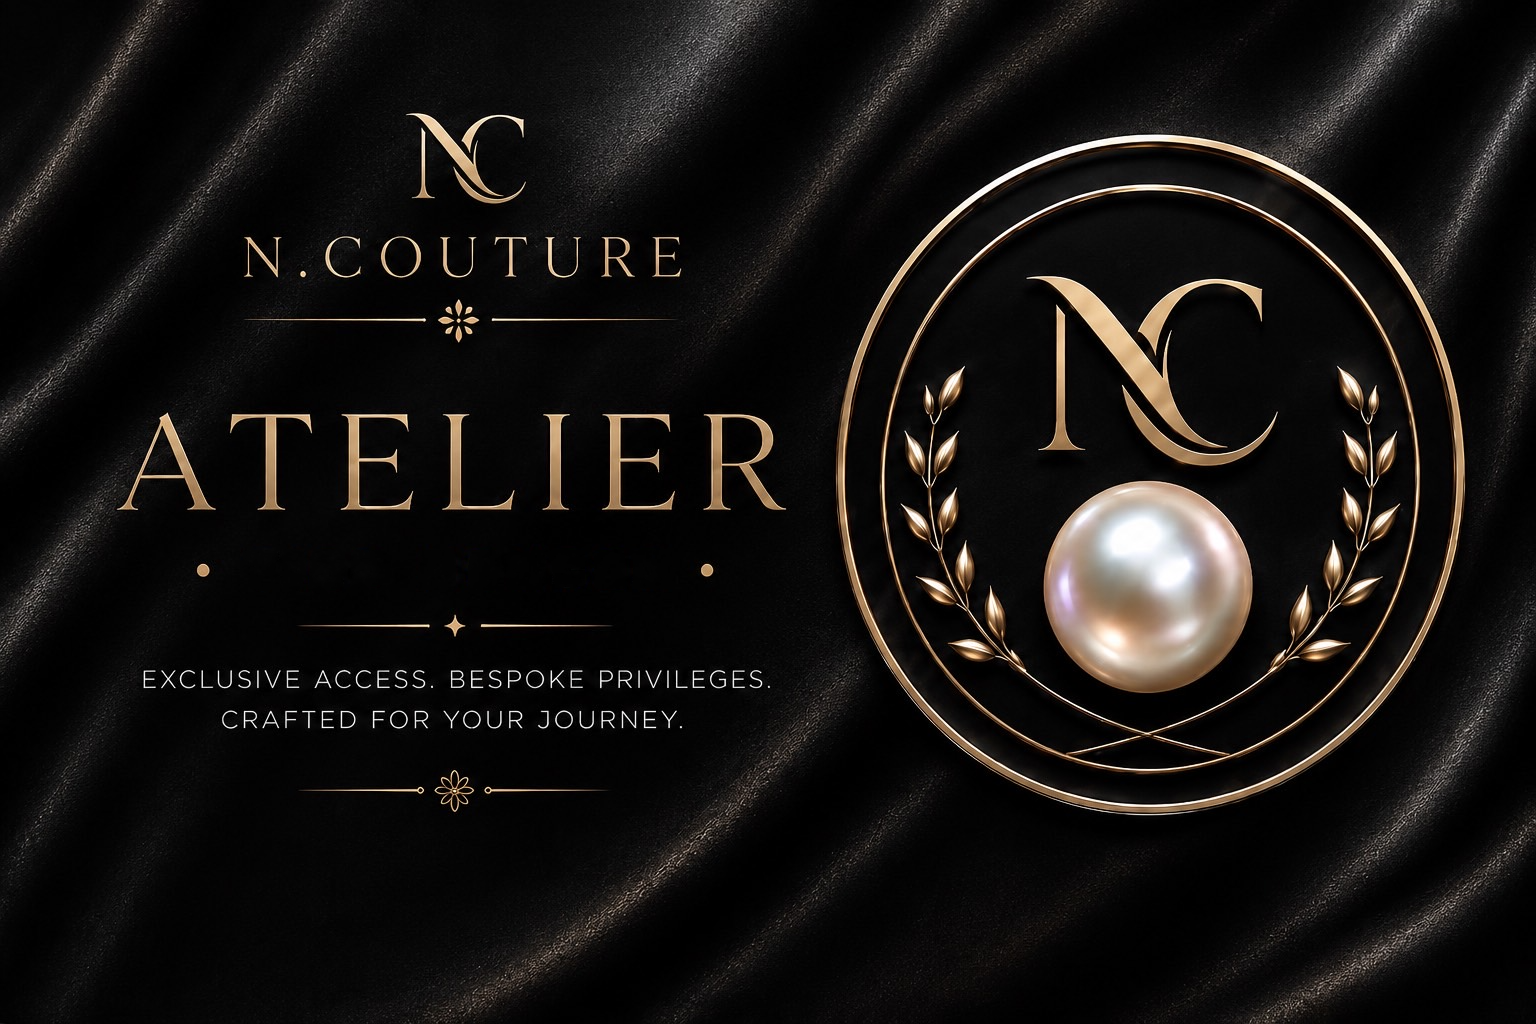
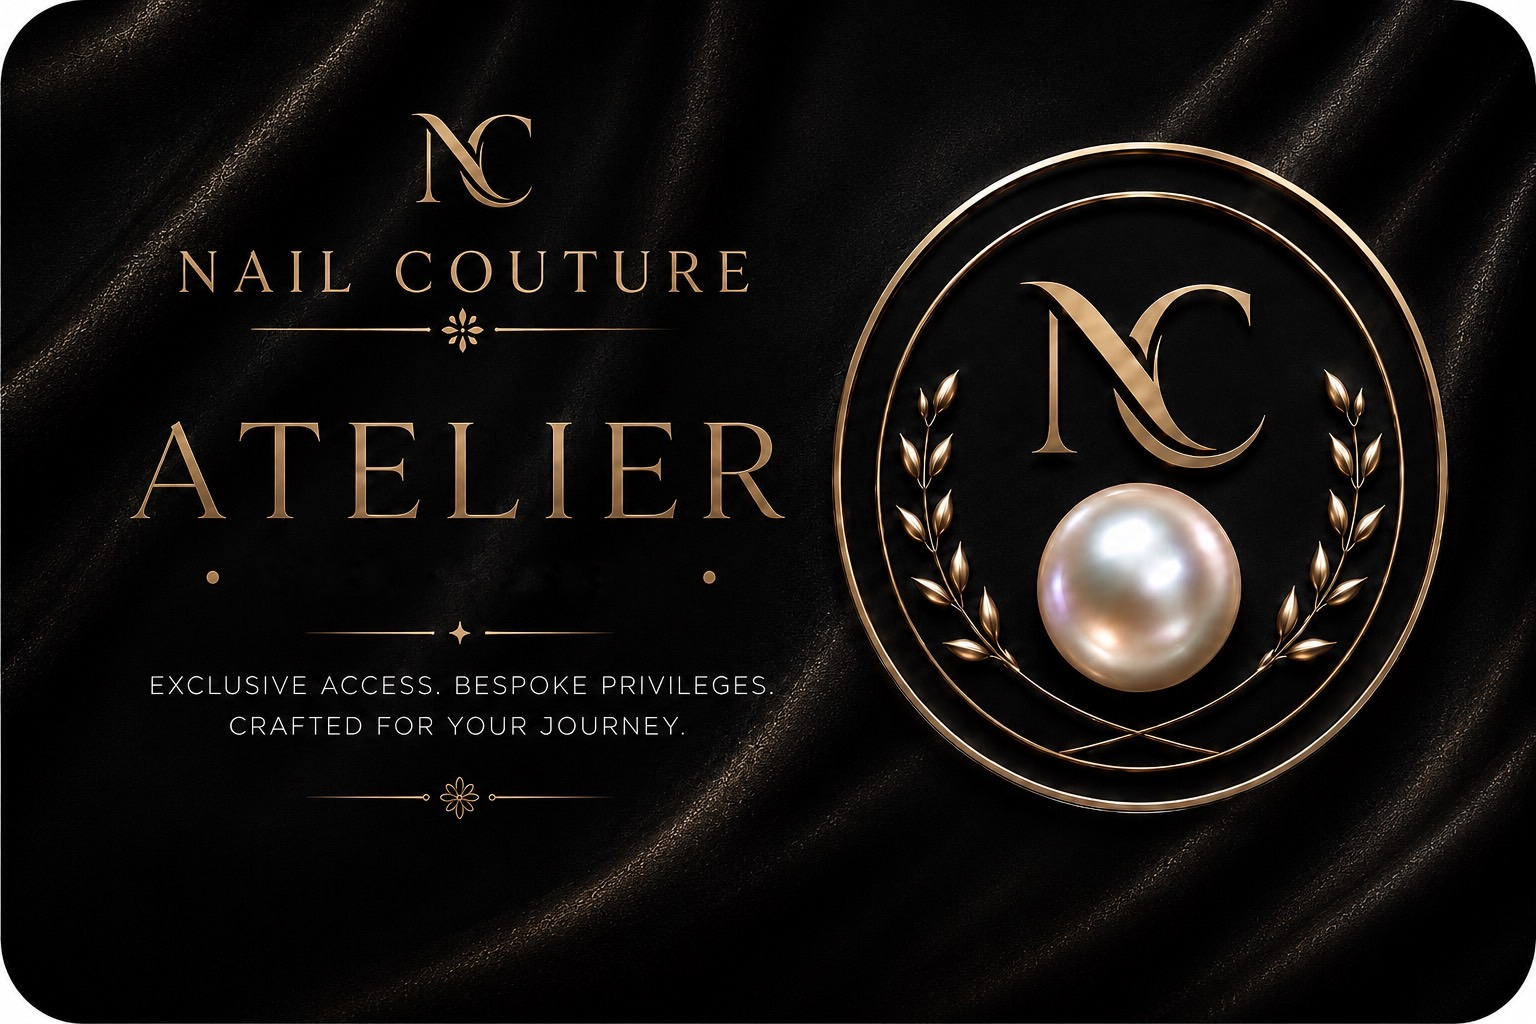
Use gift card artwork in compact GiftCardVisual and add dev preview.
Replace the gradient gift card with the 000.png asset fitted to the existing compact layout, and add shared layout constants plus a /dev/gift-card preview route.

diff --git a/apps/web/src/components/GiftCardVisual.jsx b/apps/web/src/components/GiftCardVisual.jsx
@@ -1,5 +1,6 @@
 import clsx from 'clsx';
-import { useAppTheme } from '../hooks/useAppTheme.js';
+import { formatGiftCardBalance } from '@nail-couture/shared/constants/giftCardLayout.js';
+import { GIFT_CARD_WEB_IMAGE } from '../constants/giftCardImages.js';
 
 export function GiftCardVisual({
   isDark,
@@ -16,83 +17,94 @@ export function GiftCardVisual({
   onCodeClick,
   footer,
 }) {
-  const { logoUrl } = useAppTheme();
   const hasBalance = balance != null && Number.isFinite(Number(balance));
   const hasInitial = initialAmount != null && Number.isFinite(Number(initialAmount));
-  const muted = isDark ? 'text-offwhite/50' : 'text-charcoal/50';
-  const faint = isDark ? 'text-offwhite/35' : 'text-charcoal/35';
+  const muted = isDark ? 'text-offwhite/70' : 'text-charcoal/70';
+  const faint = isDark ? 'text-offwhite/50' : 'text-charcoal/50';
 
   return (
-    <div
-      className={clsx(
-        'rounded-xl border overflow-hidden',
-        isDark
-          ? 'border-gold/25 bg-gradient-to-br from-[#1c1a16] via-[#141310] to-[#0d0c0a]'
-          : 'border-gold/35 bg-gradient-to-br from-white via-gold/5 to-gold/10',
-      )}
-    >
-      <div className={clsx('px-4 py-2.5 flex items-center justify-between border-b', isDark ? 'border-gold/15' : 'border-gold/20')}>
-        <div className="flex items-center gap-2 min-w-0">
-          <img src={logoUrl} alt="" className="h-7 w-auto shrink-0 opacity-90" />
-          <span className="font-heading text-gold text-sm truncate">Nail Couture</span>
+    <div className="relative rounded-xl border overflow-hidden border-gold/25 bg-[#0d0c0a]">
+      <img
+        src={GIFT_CARD_WEB_IMAGE}
+        alt=""
+        aria-hidden="true"
+        className="absolute inset-0 w-full h-full object-contain object-center"
+        decoding="async"
+        draggable={false}
+      />
+      <div
+        className="absolute inset-0 bg-gradient-to-br from-black/40 via-black/20 to-black/45"
+        aria-hidden="true"
+      />
+
+      <div className="relative z-[1]">
+        <div className="px-4 py-2.5 flex items-center justify-between border-b border-gold/15">
+          <span className="font-heading text-gold/90 text-sm truncate">Gift Card</span>
+          {codeInteractive ? (
+            <button
+              type="button"
+              onClick={onCodeClick}
+              className="font-mono text-xs shrink-0 text-gold hover:underline"
+            >
+              {codeDisplay}
+            </button>
+          ) : (
+            <span className="font-mono text-xs shrink-0 text-gold/70">{codeDisplay}</span>
+          )}
         </div>
-        {codeInteractive ? (
-          <button
-            type="button"
-            onClick={onCodeClick}
-            className="font-mono text-xs shrink-0 text-gold hover:underline"
+
+        <div className="px-4 py-3 flex items-end justify-between gap-3">
+          <div className="min-w-0">
+            {hasBalance ? (
+              <div className="font-heading text-3xl text-gold leading-none">
+                {formatGiftCardBalance(balance)}
+              </div>
+            ) : (
+              <div className={clsx('font-heading text-2xl leading-none', faint)}>$—</div>
+            )}
+            {ownerName && (
+              <div className={clsx('text-xs mt-1.5 truncate', muted)}>{ownerName}</div>
+            )}
+            {statusText && (
+              <div className={clsx('text-xs mt-1', muted)}>{statusText}</div>
+            )}
+            {expiryText && (
+              <div className={clsx('text-xs mt-0.5', expiryExpired ? 'text-red-400/90' : faint)}>
+                {expiryText}
+              </div>
+            )}
+            {giftedFromText && (
+              <div className={clsx('text-xs mt-1', muted)}>{giftedFromText}</div>
+            )}
+          </div>
+          <div className="text-right shrink-0">
+            {hasInitial ? (
+              <div className="font-heading text-5xl text-gold leading-none">
+                ${Number(initialAmount).toFixed(2)}
+              </div>
+            ) : (
+              <div className={clsx('font-heading text-4xl leading-none', faint)}>$—</div>
+            )}
+          </div>
+        </div>
+
+        {giftMessage && (
+          <p className={clsx('px-4 pb-3 text-xs italic', muted)}>
+            &ldquo;{giftMessage}&rdquo;
+          </p>
+        )}
+
+        {footer && (
+          <div
+            className={clsx(
+              'px-4 pb-3 flex items-center justify-end gap-3',
+              giftMessage ? 'pt-0' : 'border-t border-gold/15 pt-3',
+            )}
           >
-            {codeDisplay}
-          </button>
-        ) : (
-          <span className={clsx('font-mono text-xs shrink-0', isDark ? 'text-gold/40' : 'text-gold/50')}>
-            {codeDisplay}
-          </span>
+            {footer}
+          </div>
         )}
       </div>
-
-      <div className="px-4 py-3 flex items-end justify-between gap-3">
-        <div className="min-w-0">
-          {hasBalance ? (
-            <div className="font-heading text-3xl text-gold leading-none">${Number(balance).toFixed(2)}</div>
-          ) : (
-            <div className={clsx('font-heading text-2xl leading-none', faint)}>$—</div>
-          )}
-          {ownerName && (
-            <div className={clsx('text-xs mt-1.5 truncate', muted)}>{ownerName}</div>
-          )}
-          {statusText && (
-            <div className={clsx('text-xs mt-1', muted)}>{statusText}</div>
-          )}
-          {expiryText && (
-            <div className={clsx('text-xs mt-0.5', expiryExpired ? 'text-red-400/80' : faint)}>
-              {expiryText}
-            </div>
-          )}
-          {giftedFromText && (
-            <div className={clsx('text-xs mt-1', muted)}>{giftedFromText}</div>
-          )}
-        </div>
-        <div className="text-right shrink-0">
-          {hasInitial ? (
-            <div className="font-heading text-5xl text-gold leading-none">${Number(initialAmount).toFixed(2)}</div>
-          ) : (
-            <div className={clsx('font-heading text-4xl leading-none', faint)}>$—</div>
-          )}
-        </div>
-      </div>
-
-      {giftMessage && (
-        <p className={clsx('px-4 pb-3 text-xs italic', muted)}>
-          &ldquo;{giftMessage}&rdquo;
-        </p>
-      )}
-
-      {footer && (
-        <div className={clsx('px-4 pb-3 flex items-center justify-end gap-3', giftMessage ? 'pt-0' : 'border-t pt-3', isDark ? 'border-gold/15' : 'border-gold/20')}>
-          {footer}
-        </div>
-      )}
     </div>
   );
 }

diff --git a/apps/web/src/pages/dev/GiftCardPreviewPage.jsx b/apps/web/src/pages/dev/GiftCardPreviewPage.jsx
@@ -1,0 +1,82 @@
+import { useState } from 'react';
+import { Link } from 'react-router-dom';
+import { GiftCardVisual } from '../../components/GiftCardVisual.jsx';
+
+const PREVIEW_PROFILES = {
+  active: {
+    balance: 500,
+    initialAmount: 500,
+    ownerName: 'Customer5',
+    statusText: 'Active',
+    expiryText: 'Expires Jun 21, 2027',
+    giftedFromText: 'Gifted from A',
+    giftMessage: 'Hello',
+    codeDisplay: 'GC--****-44RT',
+  },
+  lowBalance: {
+    balance: 42.5,
+    ownerName: 'Jordan Lee',
+    statusText: 'Active',
+    expiryText: 'Expires Mar 15, 2026',
+    codeDisplay: 'GC-AB12-CD34',
+  },
+  preview: {
+    balance: 100,
+    ownerName: 'Recipient Name',
+    expiryText: 'Valid for 1 year',
+    giftMessage: 'Enjoy your spa day!',
+    codeDisplay: 'GC-****-****',
+  },
+};
+
+export default function GiftCardPreviewPage() {
+  const [profileKey, setProfileKey] = useState('active');
+  const profile = PREVIEW_PROFILES[profileKey] || PREVIEW_PROFILES.active;
+
+  return (
+    <div className="min-h-screen bg-primary text-primary p-4 md:p-8">
+      <div className="max-w-2xl mx-auto space-y-5">
+        <div className="rounded-2xl border border-card bg-card p-4 space-y-4">
+          <div className="flex flex-wrap items-start justify-between gap-3">
+            <div>
+              <p className="text-[10px] uppercase tracking-widest text-gold">Dev only</p>
+              <h1 className="font-heading text-2xl text-primary">Gift card preview</h1>
+              <p className="text-sm text-secondary mt-1">
+                Compact gift card layout in{' '}
+                <code className="text-xs">apps/web/src/components/GiftCardVisual.jsx</code>
+              </p>
+            </div>
+            <Link to="/customer/gift-cards" className="text-sm text-gold hover:underline">
+              ← Gift cards
+            </Link>
+          </div>
+
+          <div className="flex flex-wrap gap-2">
+            {Object.keys(PREVIEW_PROFILES).map((key) => (
+              <button
+                key={key}
+                type="button"
+                onClick={() => setProfileKey(key)}
+                className={`px-3 py-1.5 rounded-lg text-sm border transition-colors ${
+                  profileKey === key
+                    ? 'border-gold bg-gold/15 text-gold'
+                    : 'border-card text-secondary hover:text-primary'
+                }`}
+              >
+                {key}
+              </button>
+            ))}
+          </div>
+
+          <p className="text-xs text-secondary">
+            URL: <code>/dev/gift-card</code>
+          </p>
+        </div>
+
+        <div className="rounded-2xl border border-card bg-card p-4">
+          <GiftCardVisual isDark codeInteractive {...profile} />
+        </div>
+      </div>
+    </div>
+  );
+}

diff --git a/packages/shared/src/constants/giftCardLayout.js b/packages/shared/src/constants/giftCardLayout.js
@@ -1,0 +1,68 @@
+import { getMembershipCardWebTextStyle } from './membershipCardLayout.js';
+
+export { MEMBERSHIP_CARD_ASPECT_RATIO as GIFT_CARD_ASPECT_RATIO } from './membershipCardLayout.js';
+export { MEMBERSHIP_CARD_HERO as GIFT_CARD_FRAME } from './membershipCardLayout.js';
+
+/** Card-height-relative font sizes for web (container query units) */
+export const GIFT_CARD_FONT = {
+  balance: 'clamp(18px, 7.5cqh, 34px)',
+  code: 'clamp(8px, 2.8cqh, 11px)',
+  owner: 'clamp(8px, 3cqh, 10px)',
+};
+
+/**
+ * Overlay layout for GIMP-exported gift card asset (000.png).
+ * "GIFT CARD" branding is baked into the artwork — balance, code, and owner are dynamic.
+ */
+export const GIFT_CARD_LAYOUT = {
+  positions: {
+    balance: { top: '57%', left: '28%' },
+    code: { top: '4.5%', left: '56%' },
+    owner: { top: '77%', left: '16%' },
+  },
+  balance: {
+    color: '#D4AF37',
+    fontFamily: 'heading',
+    fontWeight: 600,
+    letterSpacing: '0.04em',
+    textTransform: 'none',
+    fontSizeWeb: GIFT_CARD_FONT.balance,
+  },
+  code: {
+    color: '#C9A227',
+    fontFamily: 'body',
+    fontWeight: 500,
+    letterSpacing: '0.14em',
+    textTransform: 'uppercase',
+    fontSizeWeb: GIFT_CARD_FONT.code,
+  },
+  owner: {
+    color: 'rgba(212, 175, 55, 0.85)',
+    fontFamily: 'body',
+    fontWeight: 500,
+    letterSpacing: '0.06em',
+    textTransform: 'none',
+    fontSizeWeb: GIFT_CARD_FONT.owner,
+  },
+  textShadow: '0 1px 2px rgba(0,0,0,0.55), 0 0 5px rgba(0,0,0,0.35)',
+};
+
+export function getGiftCardLayout() {
+  return GIFT_CARD_LAYOUT;
+}
+
+export function getGiftCardWebTextStyle(fieldStyle) {
+  return getMembershipCardWebTextStyle(fieldStyle);
+}
+
+export function formatGiftCardBalance(balance) {
+  if (balance == null || !Number.isFinite(Number(balance))) return '$—';
+  return `$${Number(balance).toFixed(2)}`;
+}
+
+export function getGiftCardAlt({ ownerName }) {
+  const name = ownerName?.trim();
+  return name
+    ? `${name} — Nail Couture gift card`
+    : 'Nail Couture gift card';
+}

diff --git a/apps/web/src/main.jsx b/apps/web/src/main.jsx
@@ -56,6 +56,7 @@ import { ProtectedRoute } from './components/ProtectedRoute.jsx'
 import RouteDocumentTitle from './components/RouteDocumentTitle.jsx'
 import { CHECK_IN_ROLE } from '@nail-couture/shared/utils/routes'
 import MembershipCardPreviewPage from './pages/dev/MembershipCardPreviewPage.jsx'
+import GiftCardPreviewPage from './pages/dev/GiftCardPreviewPage.jsx'
 
 const KIOSK_ALLOWED_PATHS = ['/check-in', '/login'];
 
@@ -672,7 +673,10 @@ function AppRoutes() {
               </ProtectedRoute>
             } />
             {import.meta.env.DEV ? (
-              <Route path="/dev/membership-card" element={<MembershipCardPreviewPage />} />
+              <>
+                <Route path="/dev/membership-card" element={<MembershipCardPreviewPage />} />
+                <Route path="/dev/gift-card" element={<GiftCardPreviewPage />} />
+              </>
             ) : null}
             <Route path="*" element={<Navigate to="/" replace />} />
           </Routes>

diff --git a/apps/web/src/constants/giftCardImages.js b/apps/web/src/constants/giftCardImages.js
@@ -1,0 +1,3 @@
+import giftCardImage from '../assets/membership/000.png';
+
+export const GIFT_CARD_WEB_IMAGE = giftCardImage;